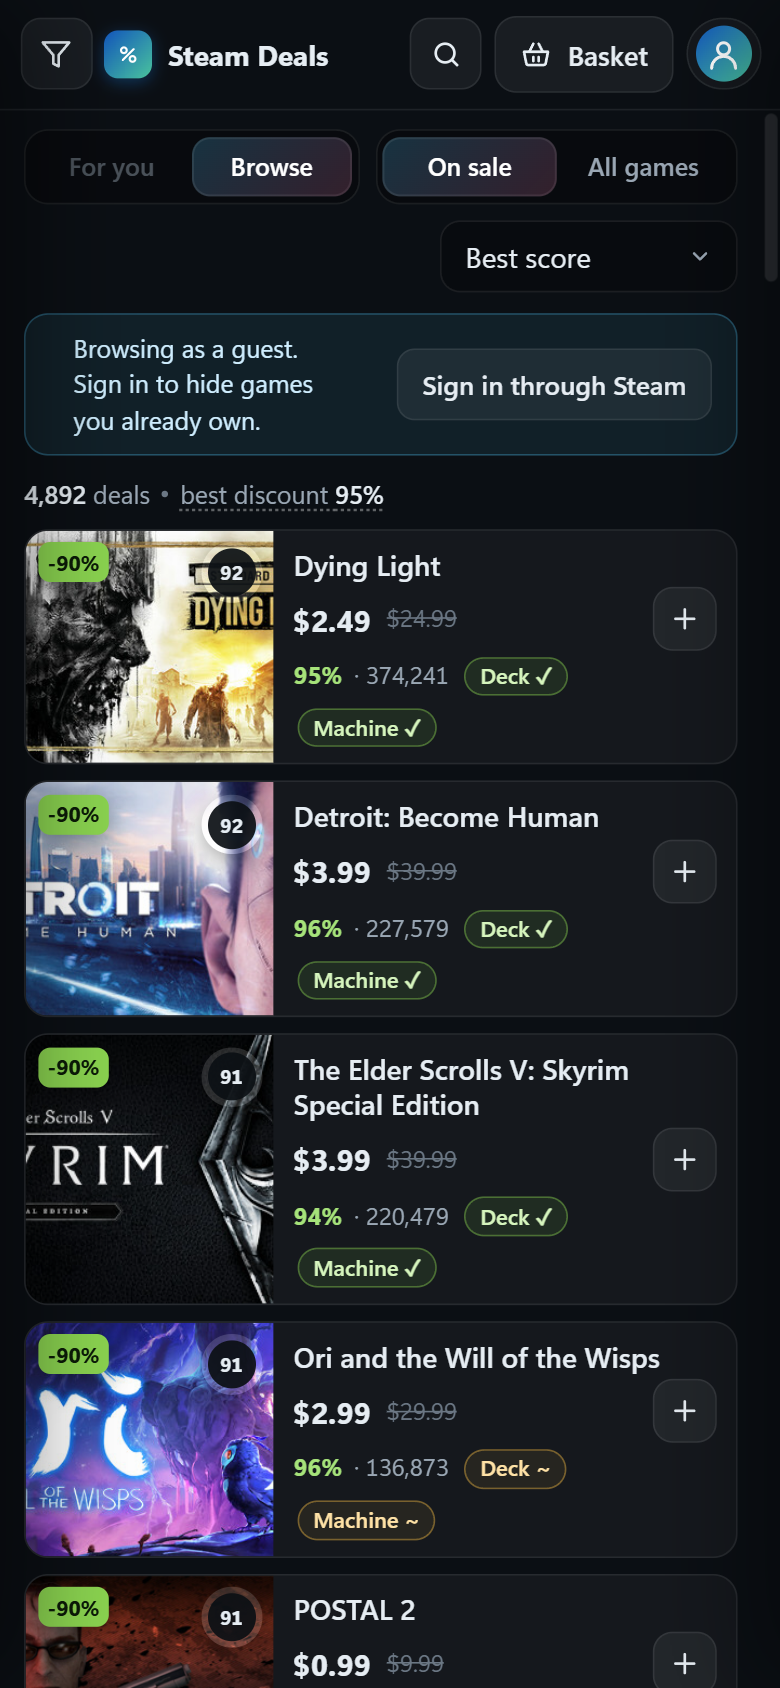
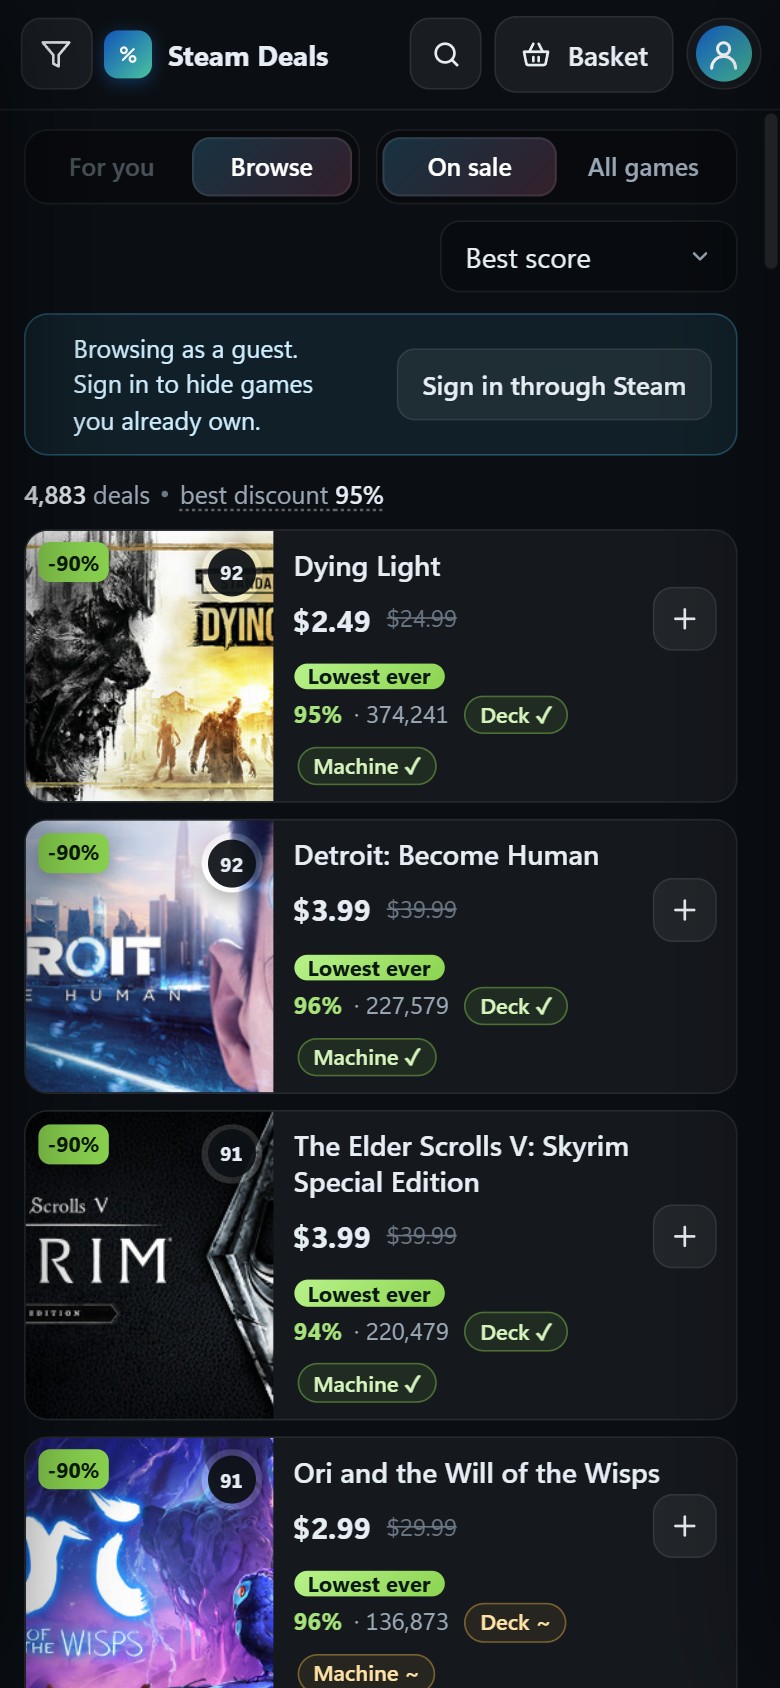
v1.9.1: basket button stays on phone cards with a Lowest ever badge; new screenshots
- On phones (and windows under 640px wide or 500px tall) price, old price, the badge and the
  always-visible Not interested and basket buttons didn't fit one row, so the basket button was
  clipped. The badge now wraps to its own line under the price.
- README gains price history and price alerts screenshots; all others recaptured from the live site.

diff --git a/src/renderer/styles/16-compat.css b/src/renderer/styles/16-compat.css
@@ -71,3 +71,17 @@
   gap: 4px 10px;
   font-size: 13.5px;
 }
+
+/* Phones: price, old price, the badge and both buttons don't fit one row, and the basket button was pushed off
+   the card. The badge takes its own line under the price instead. */
+@media (max-width: 640px), (max-height: 500px) {
+  .card .price-row {
+    flex-wrap: wrap;
+    row-gap: 4px;
+  }
+  .card .price-row .history-slot {
+    order: 10;
+    flex-basis: 100%;
+    line-height: 1;
+  }
+}

diff --git a/README.md b/README.md
@@ -16,6 +16,7 @@ keeps only the games Valve rates Verified or Playable there, and every card show
 |---|---|
 | ![Steam Deck / Machine only switch](docs/screenshots/03-steam-deck-machine-only.png) | ![Every card shows both ratings: Verified, Playable, Unsupported](docs/screenshots/04-deck-machine-ratings.png) |
 | ![Game details with the deal-score breakdown](docs/screenshots/05-game-details.png) | ![Basket with savings and an estimated tax](docs/screenshots/06-basket.png) |
+| ![Price history from IsThereAnyDeal: lowest ever, 90-day low, typical sale, and a price alert](docs/screenshots/11-price-history.png) | ![Price alerts: tell me when a game is at or below my price](docs/screenshots/12-price-alerts.png) |
 
 | Phone | Filters | Basket | Tablet |
 |---|---|---|---|
